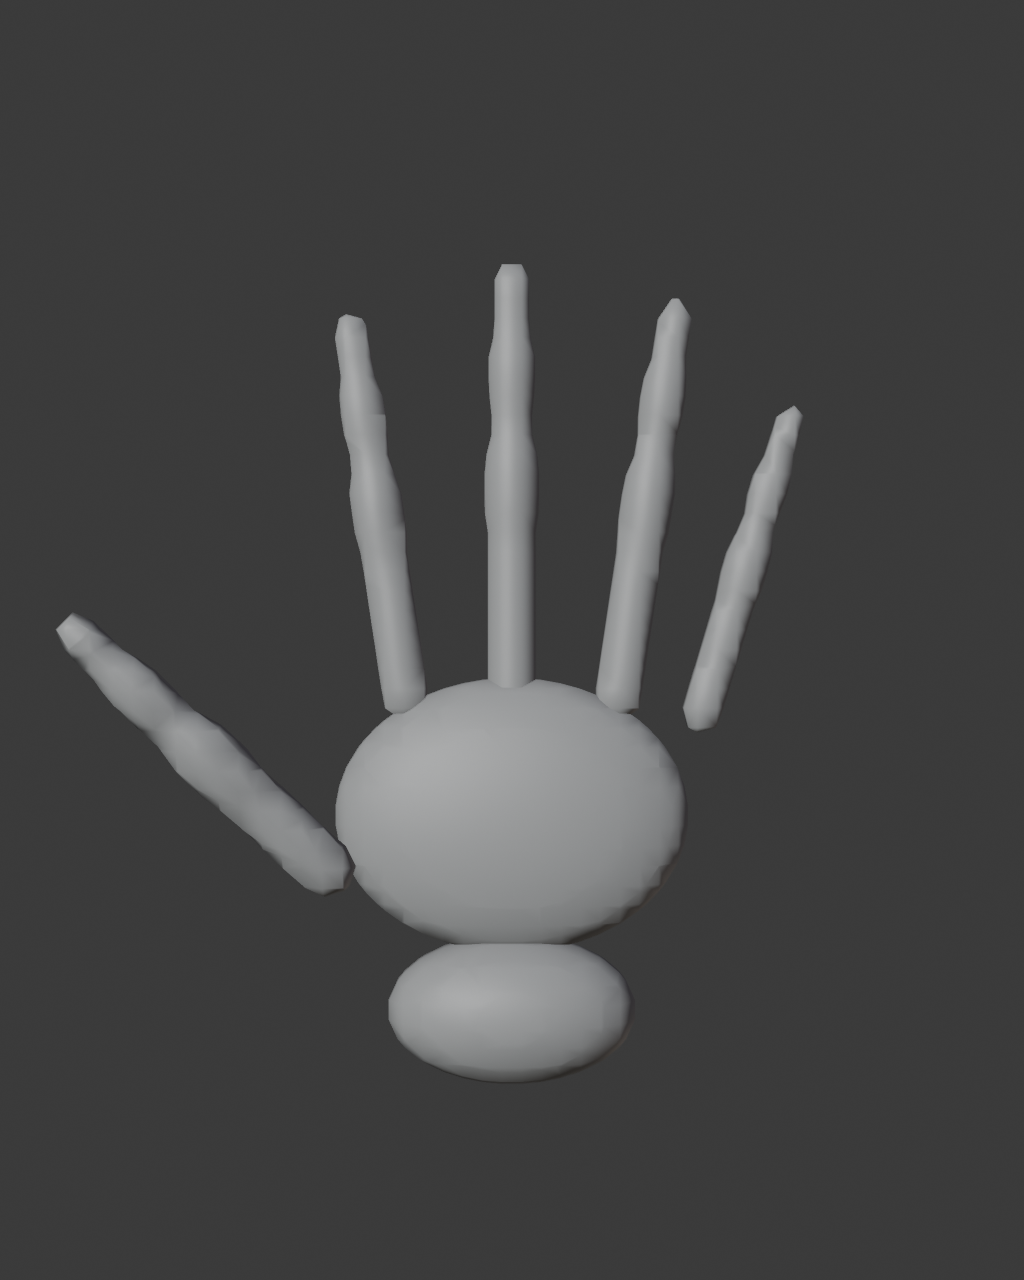
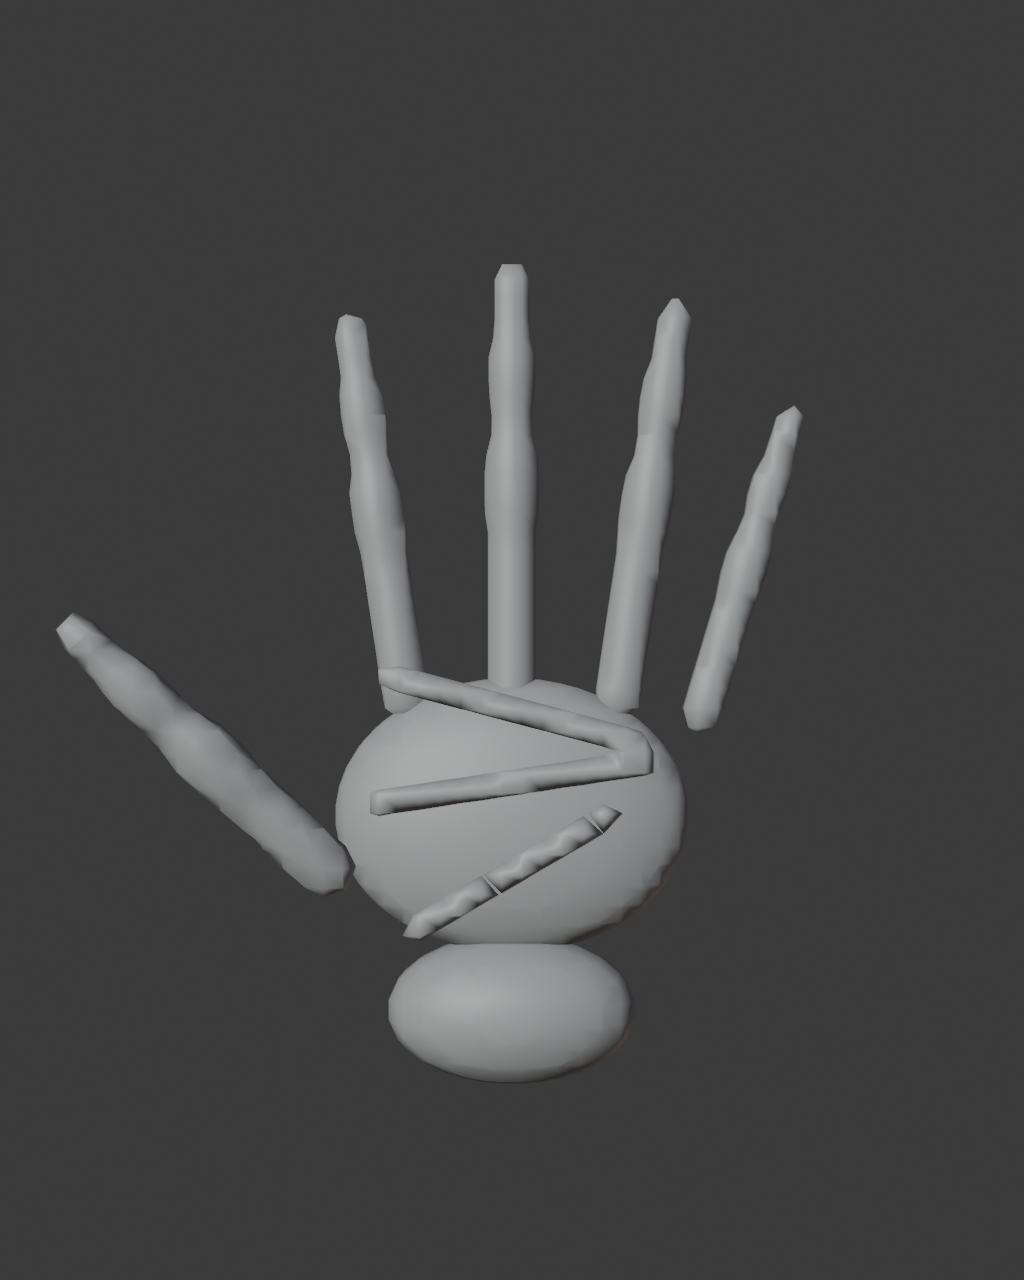
handsegnet/blender3d_prototype: WIP crete palm + tests prompt neutre (a rebaser sur handsegnet-3d-metaball-proxy)
Checkpoint intermediaire avant rebase sur la branche PR #25 (CLASS_SCHEMA.md
diverge entre circle-sam-prototype et handsegnet-3d-metaball-proxy).

diff --git a/handsegnet/blender3d_prototype/build_and_render_v3.py b/handsegnet/blender3d_prototype/build_and_render_v3.py
@@ -201,7 +201,7 @@ def add_metaball_object(name, pass_index, material):
     return obj, mb
 
 
-def add_capsule_element(mb, head, tail, radius, overlap=OVERLAP):
+def add_capsule_element(mb, head, tail, radius, overlap=OVERLAP, negative=False):
     head_v = mathutils.Vector(head)
     tail_v = mathutils.Vector(tail)
     direction = tail_v - head_v
@@ -214,7 +214,50 @@ def add_capsule_element(mb, head, tail, radius, overlap=OVERLAP):
     elem.radius = radius
     elem.size_x = half_len
     elem.rotation = mathutils.Vector((1, 0, 0)).rotation_difference(direction.normalized())
+    elem.use_negative = negative
     return elem
+
+
+def add_palm_creases(mb, palm_center):
+    """Ajoute 3 lignes de paume stylisees sous forme de fines CRETES
+    (elements CAPSULE positifs, legerement proeminents hors de la face avant
+    cote camera -Y de l'ellipsoide paume). But : donner au guide un minimum
+    de detail interne dans une zone auparavant totalement lisse, pour
+    contraindre le contenu genere par ControlNet dans cette region (cf.
+    session precedente : une paume vide sans aucune ligne s'est fait combler
+    par un objet halluciné - piste secondaire, la cause principale identifiee
+    est un fragment de prompt independant du guide, cf. CLASS_SCHEMA.md
+    "Enquete metadonnees"). Pas un objectif de realisme anatomique (vraies
+    lignes de main sont courbes, ici 3 segments droits suffisent pour le but
+    recherche)."""
+    # Approche calibrée empiriquement (test isolé dédié) : des elements
+    # NEGATIFS (creux/sillon) ne creent qu'une depression lisse (continue en
+    # courbure) - invisible pour Freestyle "crease" quel que soit le seuil
+    # teste (100 deg, 70 deg) ou le rayon (0.006 a 0.02), car il n'y a jamais
+    # de vraie cassure d'angle, juste une pente douce. Une fine CRETE
+    # POSITIVE (legerement proeminente hors de la surface) cree en revanche
+    # deux transitions d'angle nettes (montee + descente) detectees sans
+    # probleme meme a rayon fin (0.004-0.008 tous visibles au test isole).
+    cx, cy, cz = palm_center
+    # cote camera (-Y) ; legerement au-dela de la surface avant nominale de
+    # l'ellipsoide (half_extent Y=0.024) pour que la crete depasse vraiment
+    front_y = cy - 0.026
+    lines = [
+        # (offset_z, demi-largeur X, legere inclinaison)
+        (0.028, 0.030, -0.008),   # ligne de coeur (haute, proche des doigts)
+        (0.010, 0.033, 0.005),    # ligne de tete (mediane)
+        (-0.012, 0.024, 0.014),   # ligne de vie (basse, cote pouce)
+    ]
+    for dz, half_w, tilt in lines:
+        head = (cx - half_w, front_y, cz + dz - tilt)
+        tail = (cx + half_w, front_y, cz + dz + tilt)
+        # rayon calibre empiriquement : 0.003-0.004 se fragmentent en petits
+        # eclats disjoints (resolution du maillage marching-cubes trop
+        # grossiere pour une crete aussi fine a cette echelle) ; 0.005 donne
+        # des lignes pleines et continues - prime la continuite sur la
+        # finesse visuelle, l'objectif est un guide exploitable, pas un rendu
+        # elegant.
+        add_capsule_element(mb, head, tail, radius=0.005, overlap=0.0, negative=False)
 
 
 def add_ellipsoid_element(mb, center, half_extents):
@@ -255,6 +298,7 @@ def main():
     palm_obj, palm_mb = add_metaball_object("palm", 2, mats[2])
     palm_mb.threshold = ELLIPSOID_THRESHOLD
     add_ellipsoid_element(palm_mb, (0, 0, 0.065), (0.067, 0.024, 0.052))
+    add_palm_creases(palm_mb, (0, 0, 0.065))
     all_meta_objects.append(palm_obj)
 
     # --- doigts : 3 elements CAPSULE par doigt, MEME objet metaball -> fusion
